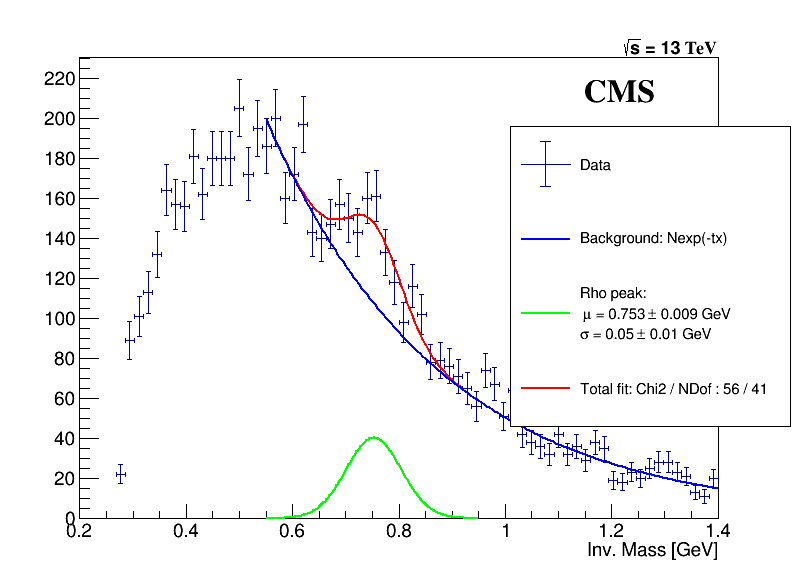
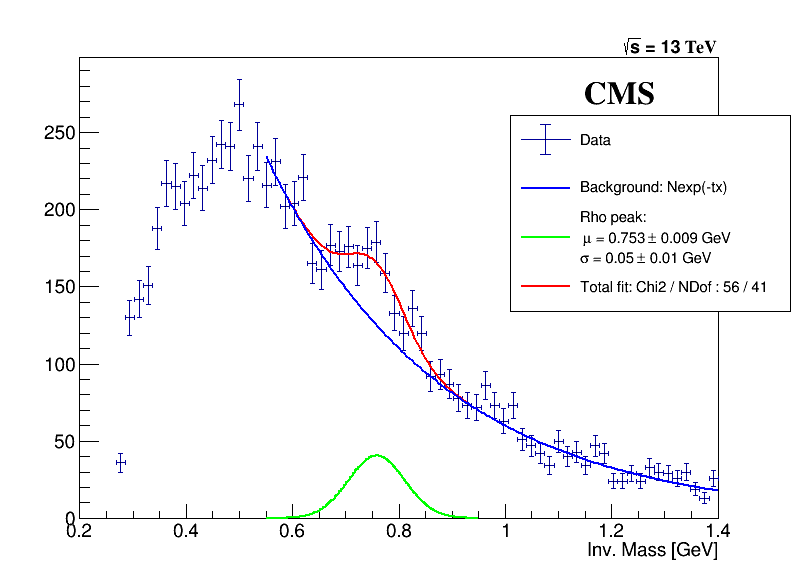
added figures

diff --git a/week6/fourtwo_reduc.C b/week6/fourtwo_reduc.C
@@ -15,10 +15,7 @@
 TFile *file1 = new TFile("/eos/cms/store/group/phys_smp/CMS_TOTEM/ntuples/data/TOTEM43.root","read");
 TTree *my_tree = (TTree*)file1->Get("tree");
 
-TH1F *hallmass = new TH1F("hallmass","hallmass", 100,0.2,1.6);
-TH1F *bothmass = new TH1F("bothmass","bothmass", 140,0.2,1.4);
-
-TH1F *h6 = new TH1F("h6","h6", 100,0.2,1.4);
+TH1F *h6 = new TH1F("h6","h6", 70,0.2,1.4);
 TH1F *h7 = new TH1F("h7","four-mass", 40,0.8,3);
 
 TH1F *h6_2 = new TH1F("h6_2","h6_2", 55,0.2,1.4);
@@ -296,42 +293,38 @@ std::vector<int> findIndices(const std::vector<float>& dxy, const std::vector<fl
 bool isSplitThreeTrack(std::vector<float> picked_dxys,std::vector<float> remaining_dxys)
 {
     int count = 0;
+    std::vector<float> distance1;
+    std::vector<float> distance2;
     for(int i = 0; i < picked_dxys.size(); i++)
     {
-        float Largest_distance = 0;
-        float distance1;
 	for (int j = 0; j < picked_dxys.size(); j++)
 	{
-	    distance1 = TMath::Abs(picked_dxys[i]-picked_dxys[j]);
-	    if (distance1 > Largest_distance)
-	    {
-	        Largest_distance = distance1;
-	    }
+	    distance1.push_back(TMath::Abs(picked_dxys[i]-picked_dxys[j]));
 	}
 	
-	float Smallest_distance = 100;
-	float distance2;
-	for (int k = 0; k < remaining_dxys.size(); k++)
-	{
-	    distance2 = TMath::Abs(picked_dxys[i]-remaining_dxys[k]);
-	    if (distance2 < Smallest_distance)
-	    {
-	        Smallest_distance = distance2;
-	    }
+        distance2.push_back(TMath::Abs(picked_dxys[i]-remaining_dxys[0]));
+
 	
-	}
-	
-	if (Largest_distance > Smallest_distance)
-	{
-	   count += 1;
-	   if (count == 2)
-	   {
-	       return true;
-	   }
-	}
+
     }
     
-    return false;
+    std::sort(distance2.begin(), distance2.end());
+    
+    float sum = 0;
+    for (int i = 0; i< distance1.size(); i++)
+    {
+        sum += distance1[i];
+    } 
+    
+    if (2*sum/distance1.size() > distance1[0]+distance2[0])
+    {
+        return true;
+    }
+    
+    else
+    {
+        return false;
+    }
 }
 
 
@@ -424,16 +417,6 @@ std::vector<float> pair_up(Particle p1, Particle p2, Particle p3, Particle p4)
   
   d5->Fill((DeltaDxy1+DeltaDxy2)/2,(DeltaDxy3+DeltaDxy4)/2);
   
-  if (TMath::Abs(mass1-mrho) < 0.15)
-  {
-       bothmass->Fill(mass2);	
-  }
-
-  if (TMath::Abs(mass3-mrho) < 0.15)
-  {
-       bothmass->Fill(mass4);
-  }
-  
   return masses; 
 }
 
@@ -444,7 +427,7 @@ std::vector<float> pair_up(Particle p1, Particle p2, Particle p3, Particle p4)
 
 //                     ----------------------------------------------------
 
-void new_reduc()
+void fourtwo_reduc()
 {
     TH1F *h1 = new TH1F("h1","h1", 200,-2,2);
     TH1F *h2 = new TH1F("h2","h2", 200,-2,2);
@@ -481,7 +464,7 @@ void new_reduc()
     my_tree->SetBranchAddress("ntrk",&ntrk);
  
     int numEnt = my_tree->GetEntries();
-    Int_t track = 6;
+    Int_t track = 5;
     
     // Load in a given n-track
 
@@ -557,6 +540,30 @@ void new_reduc()
             // Find indices to store data in particle-struct
 	    
 	    std::vector<int> indxs = findIndices(dxys,pairs);
+	    
+	    
+	    //std::vector<float> curr_dxy = {dxy[indxs[0]],dxy[indxs[1]],dxy[indxs[2]],dxy[indxs[3]]};
+	    //std::vector<float> rem_dxy;
+	    
+	    //for (int i = 0; i< track; i++)
+	    //{
+	    //    if(i != indxs[0] && i != indxs[1] && i != indxs[2] && i != indxs[3])
+	    //  {
+	    //      rem_dxy.push_back(dxy[i]);
+	    //  }
+	    //} 
+	    
+	    //if (isSplitThreeTrack(curr_dxy,rem_dxy) == true)
+	    //{
+	    //    continue;
+	    //}
+	    
+	    if ((dxy[indxs[0]]+dxy[indxs[1]]+dxy[indxs[2]]+dxy[indxs[3]])/4 > 0.2)
+	    {
+	        continue;
+	    }
+	    
+	    
 	    
 	    // Check momentum conservation in four-track
 	    h11->Fill(px[indxs[0]]+px[indxs[1]]+px[indxs[2]]+px[indxs[3]]-6500*(ThxL+ThxR));
@@ -743,29 +750,31 @@ void new_reduc()
     h8->Draw("E1");
     
     TCanvas *c10 = new TCanvas("c10","c10",1600,600);
-    c10->Divide(2,1);
-    c10->cd(1); d4->Draw("Colz");
-    
-    TLatex s25;
-    s25.SetTextSize(0.06);
-    s25.DrawLatex(0.3,3.02, "#font[22]{CMS}");
-    
-    TLatex s26;
-    s26.SetTextSize(0.034);
-    s26.DrawLatex(0.84*3,3.02, "#sqrt{s} = 13 #font[22]{TeV}");
-    
-    c10->cd(2); d5->Draw("Colz");
-    
     d4->SetTitle(" ; Inv. Mass ; #Delta|dz|");
     d5->SetTitle(" ;#Delta|dz_{1}| ;#Delta|dz_{2}|");
     
-    TLatex s5;
-    s5.SetTextSize(0.06);
-    s5.DrawLatex(0.3,3.02, "#font[22]{CMS}");
+    c10->Divide(2,1);
+    c10->cd(1); d4->Draw("Colz");
     
-    TLatex s6;
-    s6.SetTextSize(0.034);
-    s6.DrawLatex(0.84*3,3.02, "#sqrt{s} = 13 #font[22]{TeV}");
+    TLatex s15;
+    s15.SetTextSize(0.06);
+    s15.DrawLatex(0.3,3.02, "#font[22]{CMS}");
+    
+    TLatex s16;
+    s16.SetTextSize(0.034);
+    s16.DrawLatex(0.84*2,3.02, "#sqrt{s} = 13 #font[22]{TeV}");
+    
+    c10->cd(2); d5->Draw("Colz");
+   
+    
+    TLatex s35;
+    s35.SetTextSize(0.06);
+    s35.DrawLatex(0.3,3.02, "#font[22]{CMS}");
+    
+    TLatex s36;
+    s36.SetTextSize(0.034);
+    s36.DrawLatex(0.84*3,3.02, "#sqrt{s} = 13 #font[22]{TeV}");
+    
     
     
     TCanvas *c11 = new TCanvas("c11", "c11", 1600,600);
@@ -782,14 +791,6 @@ void new_reduc()
     h6_2->SetTitle(" Two-mass; Inv. Mass; ");
     h7_2->SetTitle("Four-mass; Inv. 4-mass; ");
         
-	
-	
-    TCanvas *allmass = new TCanvas("allmass","allmass",800,600);
-    bothmass->Draw("E1");
-    h6->Draw("SAMEE1");
-    
-    bothmass->SetLineColor(kRed);
-    
     
     
 }

diff --git a/week6/~dedx_analysis.C b/week6/~dedx_analysis.C
@@ -1,0 +1,33 @@
+TFile *file1 = new TFile("/eos/cms/store/group/phys_diffraction/CMSTotemLowPU2018/skim/data2/TOTEM2/log/Studies/perfect_ones_to_be_copied_back/with_protons/Results/Ntuples/summary_00.root","read");
+TTree *my_tree = (TTree*)file1->Get("tree");
+
+
+void dedx_analysis()
+{
+    Int_t tree_detector_id[3000], tree_chip_id[3000];
+    Float_t tree_momentum[3000], tree_pt[3000], tree_deltaE[3000], tree_path_length[3000], tree_eta[3000];
+    
+    my_tree->SetBranchAddress("tree_detector_id",& tree_detector_id);
+    my_tree->SetBranchAddress("tree_chip_id",&tree_chip_id);
+    
+    my_tree->SetBranchAddress("tree_momentum",&tree_momentum);
+    my_tree->SetBranchAddress("tree_pt",&tree_pt); 
+    my_tree->SetBranchAddress("tree_deltaE",&tree_deltaE);
+    my_tree->SetBranchAddress("tree_path_length",&tree_path_length);
+    my_tree->SetBranchAddress("tree_eta",&tree_eta);
+    
+    for (int irow = 0; irow< numEnt; irow++)
+    { 
+        my_tree->GetEntry(irow);
+	detector_id = tree_detector_id[0
+	pt = tree_pt[0];
+	p = tree_momentum[0];
+	deltaE = tree_deltaE[0];
+	dx = tree_path_length[0];
+	eta = tree_eta[0];
+    
+    
+    } 
+
+
+}

diff --git a/week6/dedx_analysis.C b/week6/dedx_analysis.C
@@ -1,0 +1,22 @@
+TFile *file1 = new TFile("/eos/cms/store/group/phys_diffraction/CMSTotemLowPU2018/skim/data2/TOTEM2/log/Studies/perfect_ones_to_be_copied_back/with_protons/Results/Ntuples/summary_00.root","read");
+TTree *my_tree = (TTree*)file1->Get("tree");
+
+
+void dedx_analysis()
+{
+    Int_t tree_detector_id[3000], tree_chip_id[3000];
+    Float_t tree_momentum[3000], tree_pt[3000], tree_deltaE[3000], tree_path_length[3000], tree_eta[3000];
+    
+    my_tree->SetBranchAddress("tree_detector_id",& tree_detector_id);
+    my_tree->SetBranchAddress("tree_chip_id",&tree_chip_id);
+    
+    my_tree->SetBranchAddress("tree_momentum",&tree_momentum);
+    my_tree->SetBranchAddress("tree_pt",&tree_pt); 
+    my_tree->SetBranchAddress("tree_deltaE",&tree_deltaE);
+    my_tree->SetBranchAddress("tree_path_length",&tree_path_length);
+    my_tree->SetBranchAddress("tree_eta",&tree_eta);
+    
+    
+
+
+}
